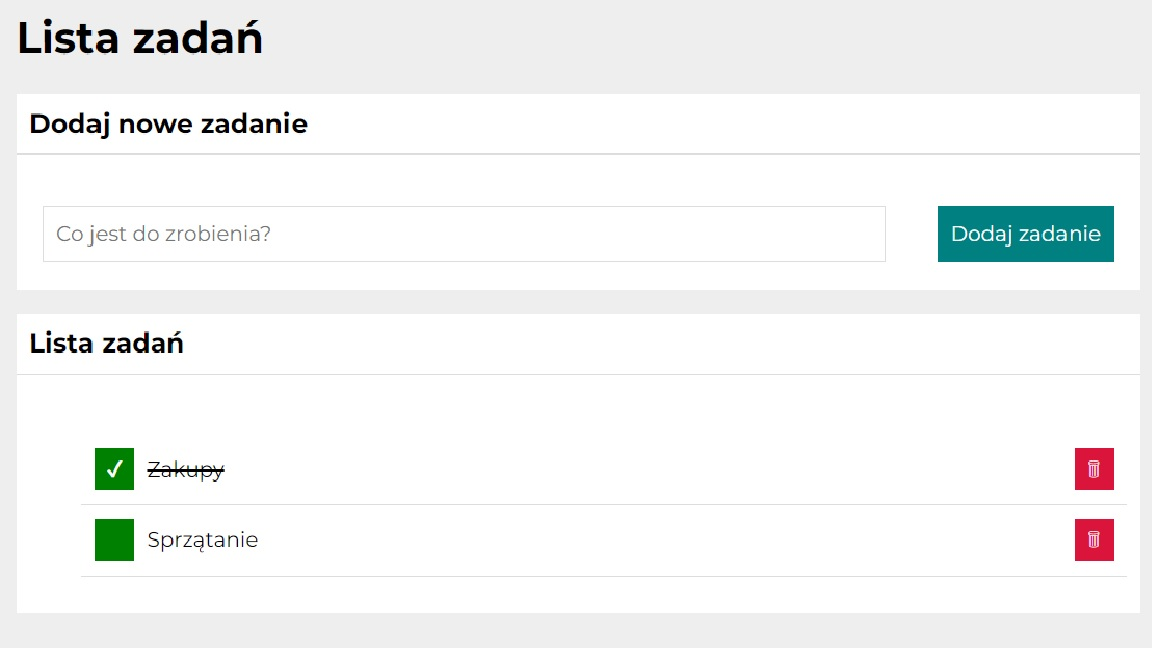
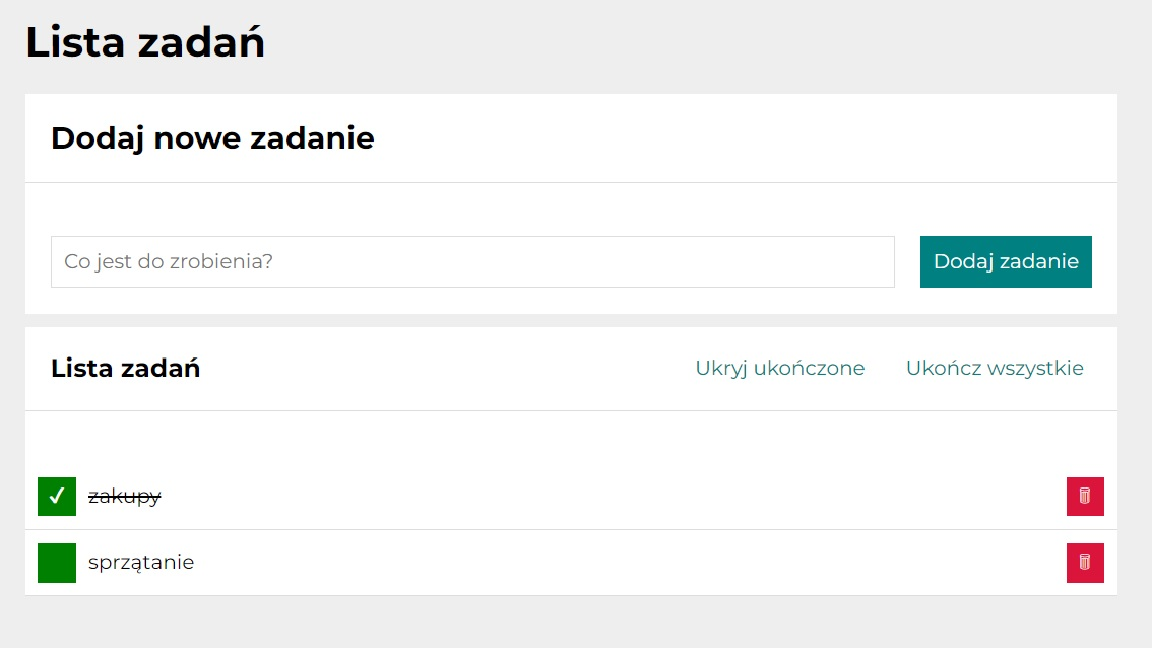
updated README.md

diff --git a/README.md b/README.md
@@ -14,3 +14,5 @@ Basic website functionalities:
 - adding task
 - removing task 
 - marking of the completed task
+- marking all completed tasks
+- hiding done tasks
